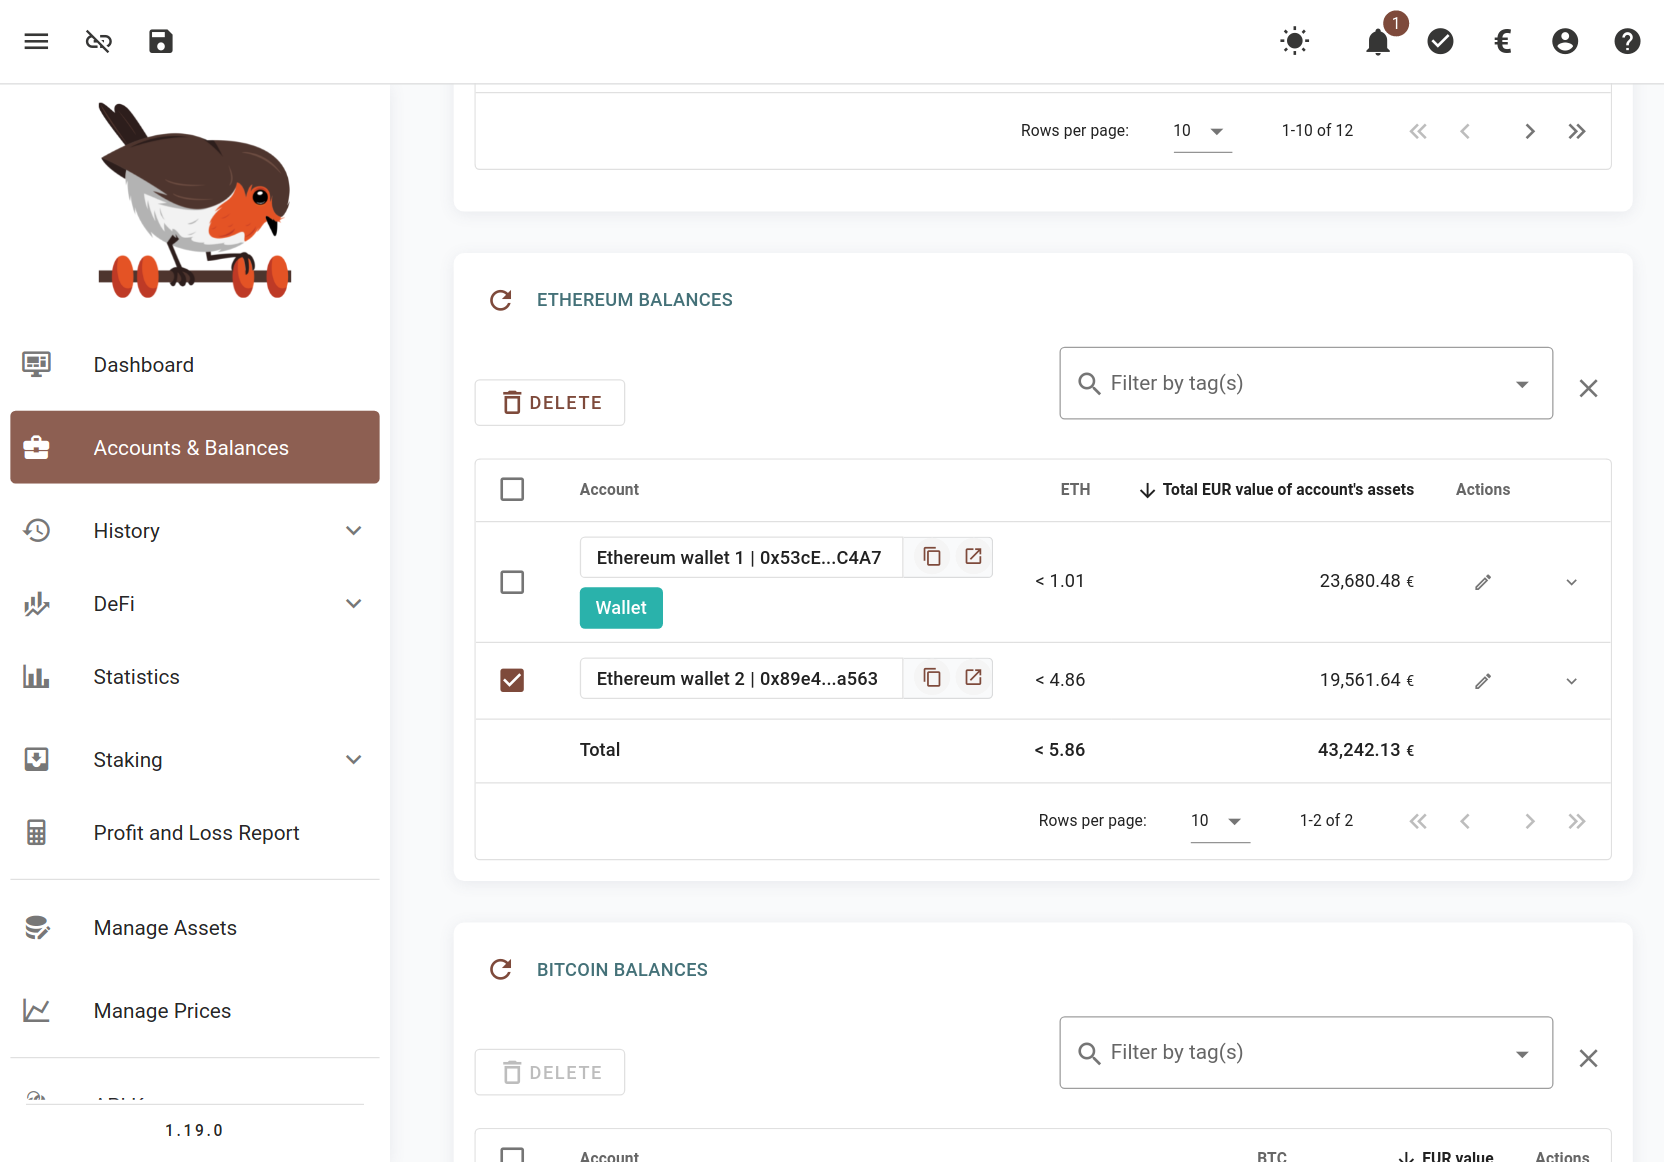
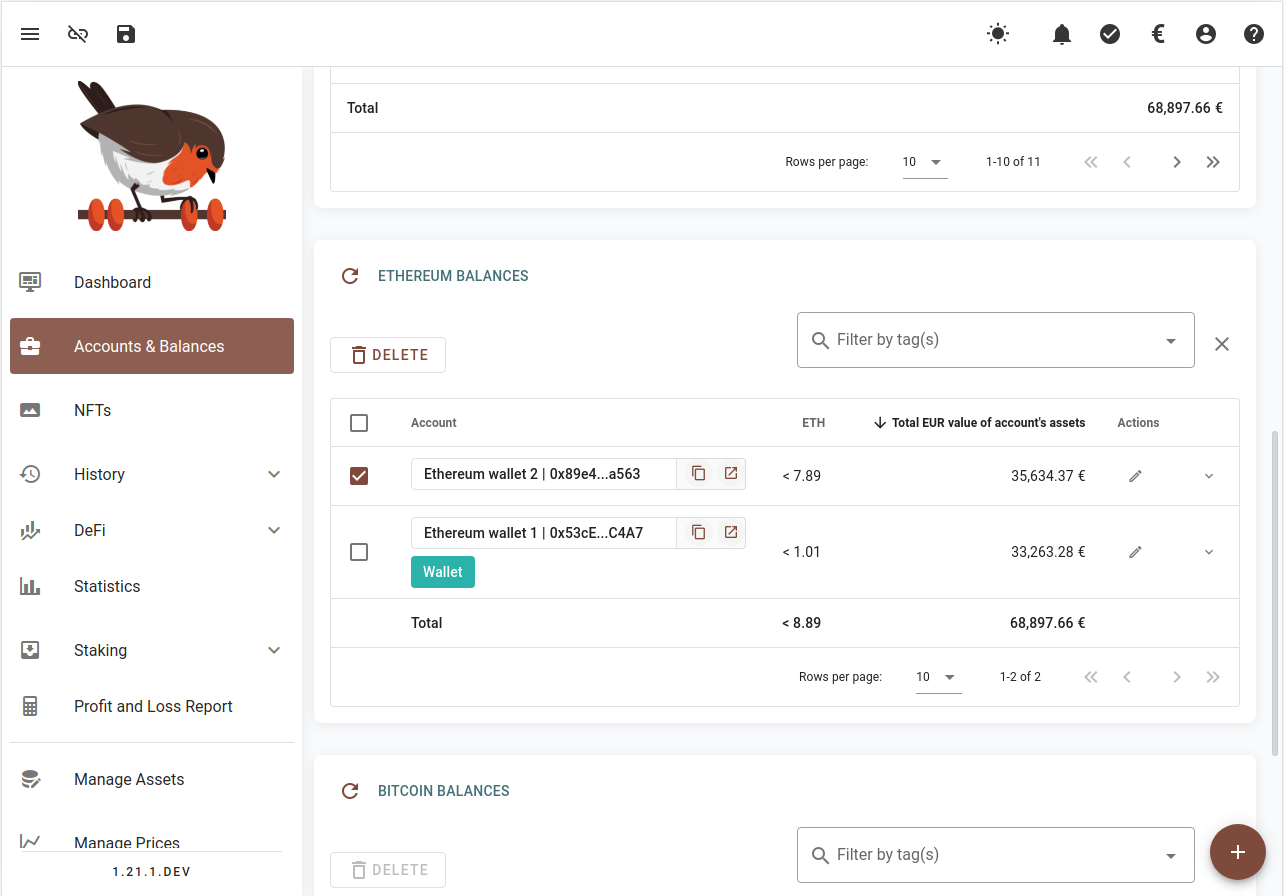
Updates the usage guide

diff --git a/docs/usage_guide.rst b/docs/usage_guide.rst
@@ -624,6 +624,8 @@ Adding and Removing Blockchain Accounts
 rotki allows to track balances of blockchain accounts.
 
 To add or modify an account navigate to the "Blockchain Balances" sub-page and click the large "+" icon. Now choose the blockchain on which you want to add an account (for now only Bitcoin, Ethereum, Kusama, Polkadot and Avalanche chains are supported). Then type or paste the address in the "Account" textbox and press the "Save" Button.
+When scrolling through the page the "+" will automatically switch the pre-selected chain based on the context. For example
+if the table displaying the screen center is the BTC table then BTC will be pre-selected when pressing "+".
 
 .. image:: images/add_blockchain_account.png
    :alt: Add a blockchain account
